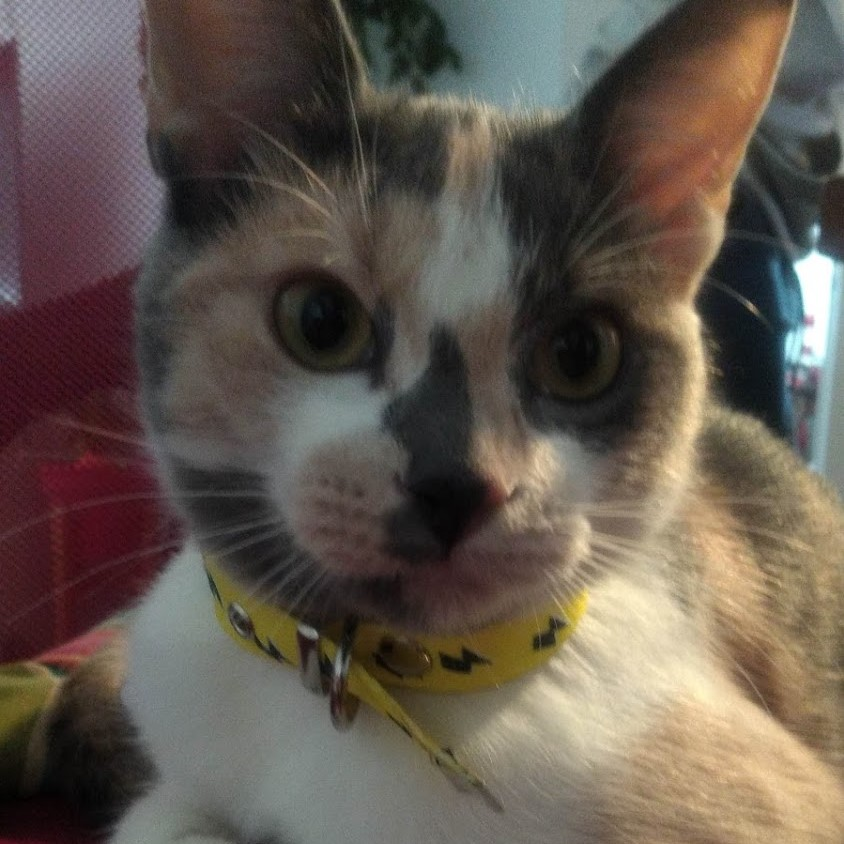
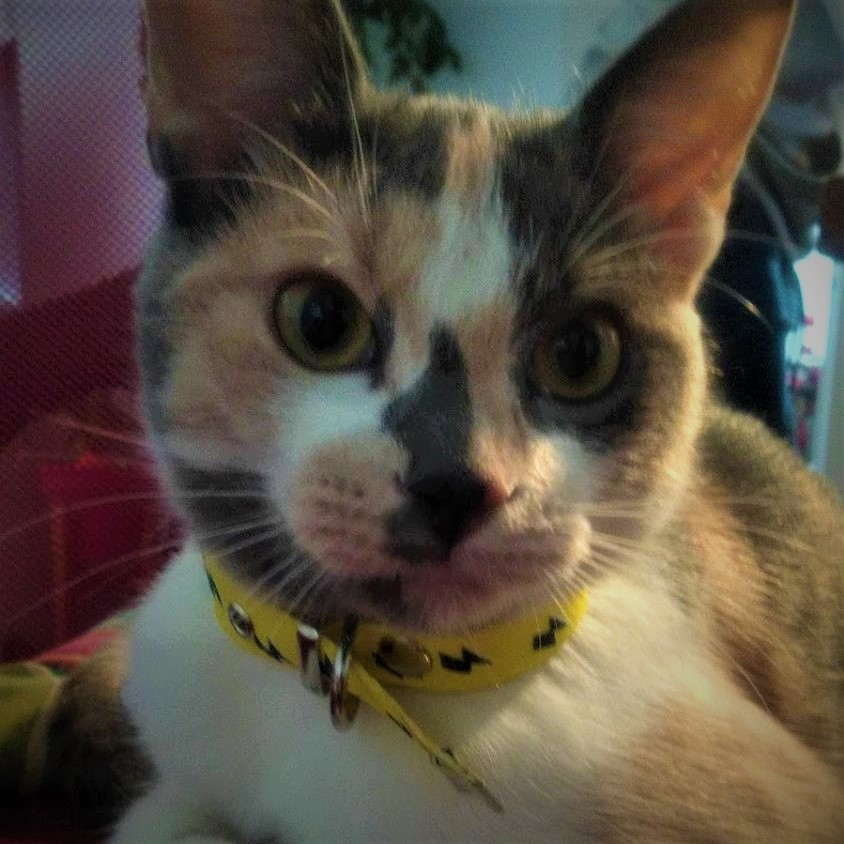
changed columns width
one more card in index
new text in chat
changed width from 75 25 to 60 40

diff --git a/js/chat.js b/js/chat.js
@@ -10,21 +10,21 @@ else if (sign.toLowerCase() == "pame") {
     
 } else if (sign.toLowerCase() == "magui") {
     document.getElementById("mensajePersonal").innerHTML=
-    " <h3>MAGUI! De nuevo por acá? me encanta que me visites, todavía no anda el chat... pero estoy trabajando para que prontito funcione</h3>";
+    " <h3>MAGUI! GRACIAS POR LA TARJETA!!!! Me encantó cómo me dibujaste, soy igual!! Lamentablemente, todavía no anda el chat... pero sigo trabajando para que prontito funcione</h3>";
     
 } else if (sign.toLowerCase() == "guada") {
     document.getElementById("mensajePersonal").innerHTML=
-    " <h3>Hola Guadi!!! que onda? como va eso? </h3>";
+    " <h3>Hola Guadi!!! GRACIAS POR ESA TARJETA HERMOSA!!! </h3> <br> <p> Me encantó!</p>";
     
 }
  else if (sign.toLowerCase() == "Sandra") {
     document.getElementById("mensajePersonal").innerHTML=
-    " <h3>ey! haceme un mimo la proxima vez que me veas</h3>";
+    " <h3>ey! haceme un mimo la proxima vez que me veas, que no tengo pulgas!</h3>";
 } 
 
 else if (sign.toLowerCase() == "abu") {
     document.getElementById("mensajePersonal").innerHTML=
-    " <h3>Gracias Abu Graciela por la idea de la caja con el almohadon, lo uso todos los dias! me encanta dormir ahí! Saludá de mi parte a el Abu José Luis!!!</h3>";
+    " <h3>Abu Graciela necesito una caja con almohadon nueva, me está quedando chica!</h3> <p> Saludá de mi parte a el Abu José Luis!!!<";
 }   
     
 else {

diff --git a/index.html b/index.html
@@ -24,11 +24,16 @@
       <div class="row">
         <div class="leftcolumn">
           <div class="card">
-            <h2>Quien soy? ...como si no supieses quien soy</h2>
-            <h5>Pero te voy a contar cosas mias que no sabés</h5>
+            <h2>Ya cumplí UN AÑO!!! </h2>
+            <h5>Mis humanos son lo mejor!!! <br> y mis fans me hicieron los mejores regalos</h5>
             <img src="images/tita.jpg" alt="Tita The Cat">
-            <p>Soy miembro de GTA: Gatos Tecladoadictos Anonimos y hace como 5 minutos que no me sientojsfashbaaks bcfgkakrthrthrhyjh eyhehehewdddddddddy</p>
-            <p>Miau. miau. Me encanta ganarle al despertador despertando a mis humanos.</p>
+            <p>Cumplí un año el 7 de octubre, lo pasé genial! </p>
+            <p>Mi fotografo de confianza estaba de viaje, así que Ana sacó esta foto... <br> Creo que la arreglé bastante bien con los filtros y el Photoshop</p>
+          </div>
+          <div class="card"> 
+            <h2> Mi cumple fue hermoso!</h2>
+            <h5> Pero me cansé tanto que después dormí por tres días!</h5>
+            <img src="images/sleepyCat.jpeg" alr="Durmiendo">
           </div>
           <div class="card"> 
             <h2>Te pasa lo mismo que a mi?</h2>

diff --git a/css/style.css b/css/style.css
@@ -57,13 +57,13 @@ body {
 /* Left column */
 .leftcolumn {   
   float: left;
-  width: 75%;
+  width: 60%;
 }
 
 /* Right column */
 .rightcolumn {
   float: left;
-  width: 25%;
+  width: 40%;
   background-color: #f1f1f1;
   padding-left: 20px;
 }
